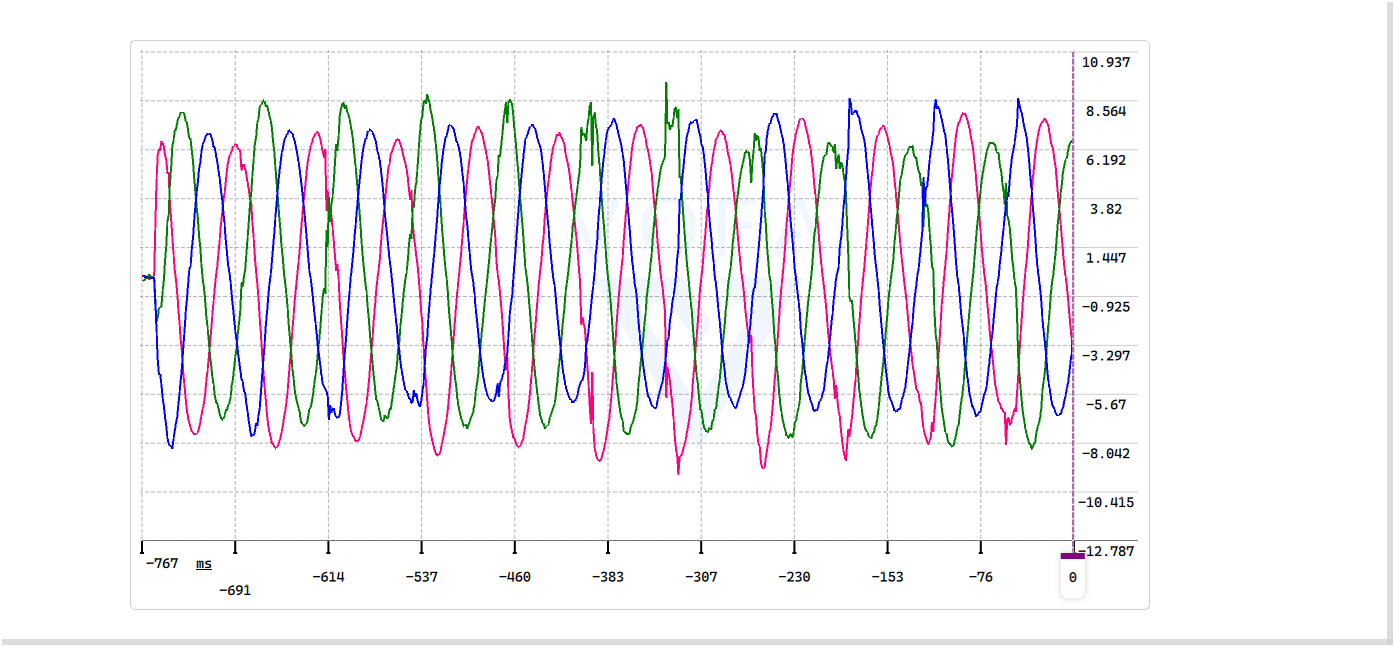
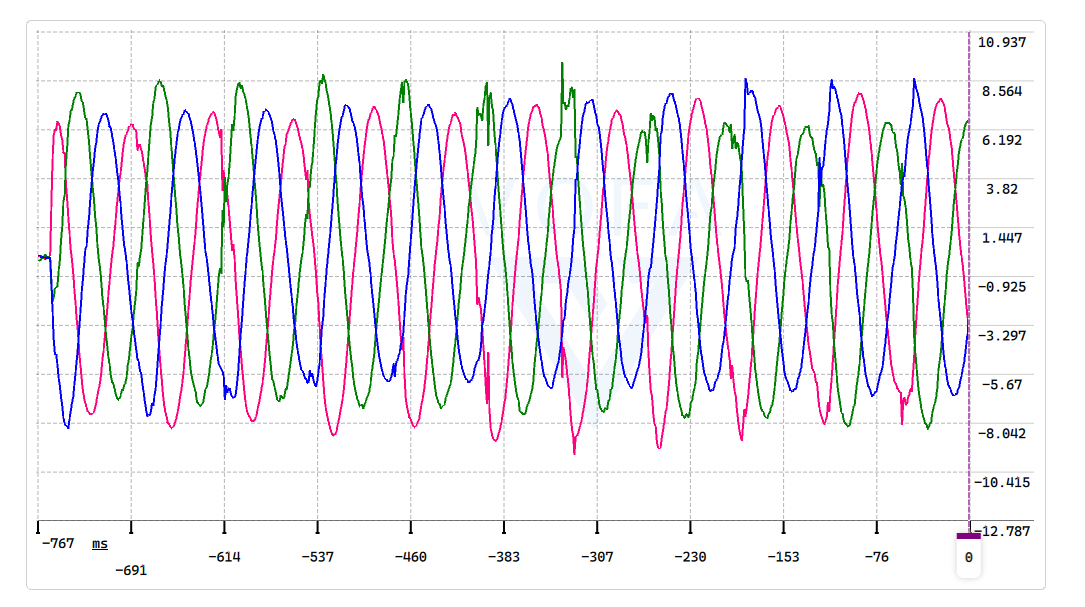
阶段3：编码器角度读取与电角度计算

diff --git a/Sdrive/encoder.c b/Sdrive/encoder.c
@@ -1,0 +1,68 @@
+#include "encoder.h"
+#include "tim.h"
+
+#define ENCODER_TWO_PI      6.28318530718f
+#define ENCODER_SPEED_LPF_A 0.1f
+#define ENCODER_SPEED_LPF_B 0.9f
+
+static float s_speed_filtered = 0.0f;
+
+void Encoder_Init(void)
+{
+    HAL_TIM_Encoder_Start(&htim3, TIM_CHANNEL_1 | TIM_CHANNEL_2);
+    TIM3->CNT = 0;
+    s_speed_filtered = 0.0f;
+}
+
+/* Call at a fixed rate, for example every 1 ms. */
+void Encoder_Update(Encoder_t *enc)
+{
+    uint32_t raw = TIM3->CNT;
+    int32_t diff = (int32_t)(raw - (uint32_t)enc->last_count);
+    float mech;
+    float inst_speed;
+
+    if (diff > (ENCODER_CPR / 2))
+    {
+        diff -= ENCODER_CPR;
+    }
+    else if (diff < -(ENCODER_CPR / 2))
+    {
+        diff += ENCODER_CPR;
+    }
+
+    enc->raw_count = raw;
+    enc->delta_count = diff;
+    enc->last_count = (int32_t)raw;
+
+    mech = ((float)raw * ENCODER_TWO_PI) / (float)ENCODER_CPR;
+    if (mech >= ENCODER_TWO_PI)
+    {
+        mech -= ENCODER_TWO_PI;
+    }
+    enc->mech_angle_rad = mech;
+
+    enc->elec_angle_rad = mech * (float)MOTOR_POLE_PAIRS;
+    while (enc->elec_angle_rad >= ENCODER_TWO_PI)
+    {
+        enc->elec_angle_rad -= ENCODER_TWO_PI;
+    }
+
+    /* M-method speed: rpm = delta_count / CPR * 60 / Ts. Ts = 0.001 s. */
+    inst_speed = ((float)diff * 60000.0f) / (float)ENCODER_CPR;
+    s_speed_filtered = ENCODER_SPEED_LPF_B * s_speed_filtered + ENCODER_SPEED_LPF_A * inst_speed;
+    enc->speed_rpm = s_speed_filtered;
+}
+
+/* Call after the rotor has been aligned to electrical angle zero. */
+void Encoder_SetZero(Encoder_t *enc)
+{
+    TIM3->CNT = 0;
+    enc->raw_count = 0;
+    enc->last_count = 0;
+    enc->delta_count = 0;
+    enc->mech_angle_rad = 0.0f;
+    enc->elec_angle_rad = 0.0f;
+    enc->speed_rpm = 0.0f;
+    s_speed_filtered = 0.0f;
+}

diff --git a/Core/Src/main.c b/Core/Src/main.c
@@ -31,6 +31,7 @@
 #include "key_app.h"
 #include "current_sense.h"
 #include "clarke.h"
+#include "encoder.h"
 #include "vofa_app.h"
 /* USER CODE END Includes */
 
@@ -54,6 +55,7 @@
 /* USER CODE BEGIN PV */
 
 CurrentSense_t g_current;
+Encoder_t g_encoder;
 /* USER CODE END PV */
 
 /* Private function prototypes -----------------------------------------------*/
@@ -111,6 +113,9 @@ int main(void)
   /* Initialize FOC open-loop control and write zero voltage vector */
   FOC_OpenLoop_Init();
 
+  /* Initialize TIM3 encoder interface */
+  Encoder_Init();
+
   /* Set board power and driver enable pins */
   HAL_GPIO_WritePin(PWR_GPIO_Port, PWR_Pin, GPIO_PIN_SET);
   HAL_GPIO_WritePin(SD1_GPIO_Port, SD1_Pin, GPIO_PIN_RESET);
@@ -122,6 +127,13 @@ int main(void)
   /* Briefly enable zero-vector PWM so TIM1_CH4 triggers injected ADC, then calibrate offsets */
   FOC_OpenLoop_Enable();
   CurrentSense_CalibrateOffset();
+  FOC_OpenLoop_Disable();
+
+  /* Align encoder zero to electrical angle zero by applying an alpha-axis voltage vector */
+  FOC_OpenLoop_Enable();
+  FOC_SvpwmUpdate(1.0f, 0.0f);
+  HAL_Delay(800);
+  Encoder_SetZero(&g_encoder);
   FOC_OpenLoop_Disable();
 
   /* Initialize keys; PWM stays disabled until KEY1 is pressed */
@@ -163,8 +175,11 @@ int main(void)
     CurrentSense_Read(&g_current);
     Clarke_Update(&g_current);
 
-    /* Send current and voltage data to VOFA+ without blocking the control loop */
-    VOFA_Task(&g_current);
+    /* Read encoder angle and speed */
+    Encoder_Update(&g_encoder);
+
+    /* Send current, voltage, angle and speed data to VOFA+ without blocking the control loop */
+    VOFA_Task(&g_current, &g_encoder);
 
     /* Call every 1 ms: output zero vector when disabled, otherwise lock or rotate */
     FOC_OpenLoop_Run();

diff --git a/App/vofa_app.c b/App/vofa_app.c
@@ -1,7 +1,7 @@
 #include "vofa_app.h"
 #include "usart.h"
 
-#define VOFA_CHANNEL_COUNT   6
+#define VOFA_CHANNEL_COUNT   9
 #define VOFA_FRAME_SIZE      (VOFA_CHANNEL_COUNT * 4U + 4U)
 
 static uint8_t  s_tx_buf[VOFA_FRAME_SIZE];
@@ -29,10 +29,9 @@ void VOFA_Init(void)
     s_last_send_tick = HAL_GetTick();
 }
 
-void VOFA_Task(CurrentSense_t *cur)
+void VOFA_Task(CurrentSense_t *cur, Encoder_t *enc)
 {
     uint32_t now = HAL_GetTick();
-    uint16_t i;
 
     if ((now - s_last_send_tick) < VOFA_SEND_PERIOD_MS)
     {
@@ -51,12 +50,15 @@ void VOFA_Task(CurrentSense_t *cur)
     VOFA_FloatToBytes(cur->Ialpha, &s_tx_buf[12]);
     VOFA_FloatToBytes(cur->Ibeta, &s_tx_buf[16]);
     VOFA_FloatToBytes(cur->Vbus, &s_tx_buf[20]);
+    VOFA_FloatToBytes(enc->mech_angle_rad, &s_tx_buf[24]);
+    VOFA_FloatToBytes(enc->elec_angle_rad, &s_tx_buf[28]);
+    VOFA_FloatToBytes(enc->speed_rpm, &s_tx_buf[32]);
 
     /* JustFloat tail: 00 00 80 7f */
-    s_tx_buf[24] = 0x00U;
-    s_tx_buf[25] = 0x00U;
-    s_tx_buf[26] = 0x80U;
-    s_tx_buf[27] = 0x7fU;
+    s_tx_buf[36] = 0x00U;
+    s_tx_buf[37] = 0x00U;
+    s_tx_buf[38] = 0x80U;
+    s_tx_buf[39] = 0x7fU;
 
     s_tx_busy = 1U;
     if (HAL_UART_Transmit_IT(&huart1, s_tx_buf, VOFA_FRAME_SIZE) != HAL_OK)

diff --git a/Sdrive/encoder.h b/Sdrive/encoder.h
@@ -1,0 +1,24 @@
+#ifndef __ENCODER_H
+#define __ENCODER_H
+
+#include "main.h"
+
+#define ENCODER_PPR         1024
+#define ENCODER_CPR         (ENCODER_PPR * 4)
+#define MOTOR_POLE_PAIRS    10
+
+typedef struct
+{
+    uint32_t raw_count;        /* TIM3->CNT raw value */
+    int32_t  last_count;       /* previous count used for delta */
+    int32_t  delta_count;      /* count delta with wrap handling */
+    float    mech_angle_rad;   /* mechanical angle, rad */
+    float    elec_angle_rad;   /* electrical angle, rad */
+    float    speed_rpm;        /* mechanical speed, rpm */
+} Encoder_t;
+
+void Encoder_Init(void);
+void Encoder_Update(Encoder_t *enc);
+void Encoder_SetZero(Encoder_t *enc);
+
+#endif

diff --git a/App/vofa_app.h b/App/vofa_app.h
@@ -3,10 +3,11 @@
 
 #include "main.h"
 #include "current_sense.h"
+#include "encoder.h"
 
 #define VOFA_SEND_PERIOD_MS   5
 
 void VOFA_Init(void);
-void VOFA_Task(CurrentSense_t *cur);
+void VOFA_Task(CurrentSense_t *cur, Encoder_t *enc);
 
 #endif

diff --git a/README.md b/README.md
@@ -187,9 +187,42 @@ Vbus
 4. PWM 未使能时，三相电流应接近 0。
 5. 按 KEY1 进入锁轴或旋转状态后，三相电流应为正弦波，αβ 轨迹应为圆形。
 
+### 阶段 3：编码器角度读取与电角度计算
+
+阶段 3 使用 TIM3 编码器接口读取转子角度，为后续 Park 变换提供电角度。
+
+#### 实现了什么
+
+- TIM3 Encoder Mode 四倍频解码。
+- 计算每转 4096 计数的机械角度。
+- 根据极对数 10 计算电角度。
+- 处理计数器 0/4095 回绕。
+- 使用 M 法估算机械转速。
+- 上电时通过 α 轴电压矢量锁轴，完成编码器零点与电角度零点对齐。
+- 通过 VOFA+ 输出机械角度、电角度和速度波形。
+
+#### 编码器参数
+
+- 编码器 PPR：1024
+- 每转计数 CPR：4096
+- 电机极对数：10
+- 机械一圈对应电角度 10 个 2π
+
+#### 角度波形
+
+![编码器角度波形](picture/encoder.png)
+
+#### 如何测试阶段 3
+
+1. 编译烧录，等待上电自动对齐。
+2. 手动转电机一圈：
+   - `mech_angle_rad` 从 0 增大到 2π 一次。
+   - `elec_angle_rad` 变化 10 次。
+3. 在 VOFA+ 中观察角度和速度。
+4. 若角度方向与预期相反，只改角度符号或交换 A/B 接线，不要同时改两处。
+
 ## 后续阶段计划
 
-- 阶段 3：TIM3 编码器角度读取与电角度计算。
 - 阶段 4：有感电流闭环 FOC。
 - 阶段 5：速度闭环。
 
